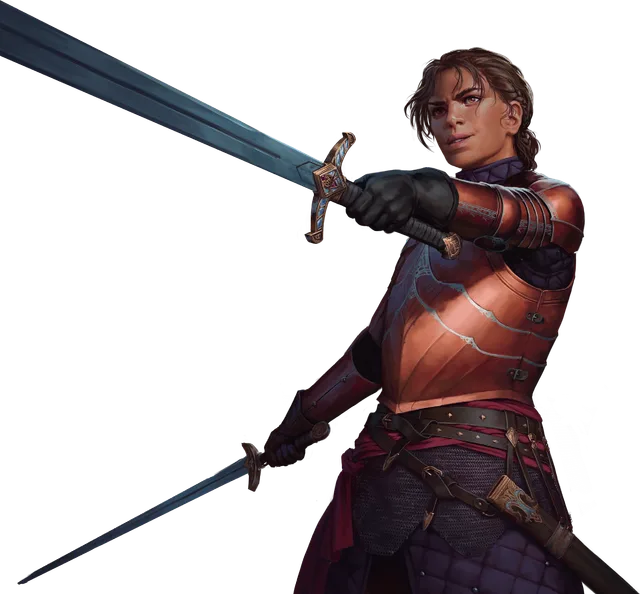
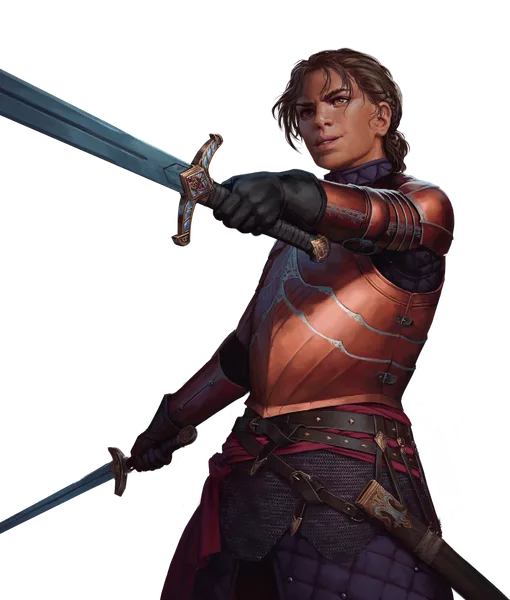
Creación de personaje: ilustraciones de las clases de Hope & Fear y recorte de las imágenes apaisadas para que ocupen más

diff --git a/src/components/DaggerheartApp.jsx b/src/components/DaggerheartApp.jsx
@@ -333,6 +333,10 @@ const CLASS_ART = {
   Hechicero: "/clases/hechicero.webp",
   Guerrero: "/clases/guerrero.webp",
   Mago: "/clases/mago.webp",
+  Bruja: "/clases/bruja.webp",
+  Brujo: "/clases/brujo.webp",
+  Camorrista: "/clases/camorrista.webp",
+  Asesino: "/clases/asesino.webp",
 };
 
 const TRAIT_HINTS = {
@@ -2313,7 +2317,7 @@ const sharedStyles = `
   .mh-wz-det.has-art .mh-wz-feats { grid-template-columns: 1fr; }
   .mh-wz-art { position: absolute; top: 0; right: 0; bottom: 0; width: 50%; pointer-events: none; background: radial-gradient(90% 70% at 55% 45%, color-mix(in srgb, var(--tc) 22%, transparent), transparent 70%); }
   .mh-wz-art img {
-    position: absolute; right: 24px; bottom: 0; height: 94%; max-width: 92%; object-fit: contain; object-position: bottom right;
+    position: absolute; right: 16px; bottom: 0; height: 96%; max-width: 100%; object-fit: contain; object-position: bottom right;
     -webkit-mask-image: linear-gradient(to right, transparent 0, #000 22%, #000 80%, transparent 100%), linear-gradient(to bottom, transparent 0, #000 12%, #000 78%, transparent 100%);
     -webkit-mask-composite: source-in;
     mask-image: linear-gradient(to right, transparent 0, #000 22%, #000 80%, transparent 100%), linear-gradient(to bottom, transparent 0, #000 12%, #000 78%, transparent 100%);
